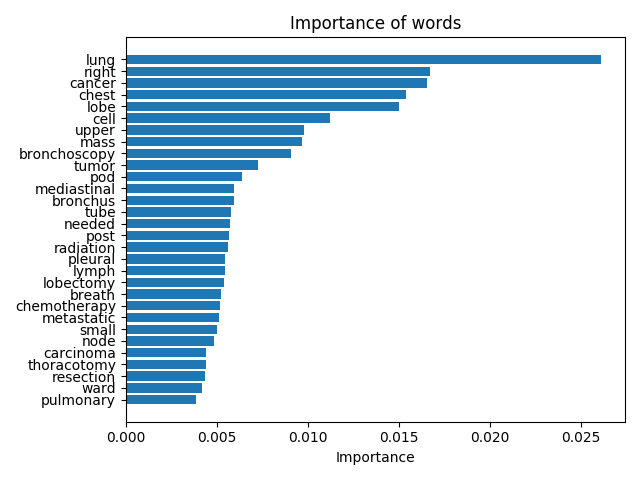
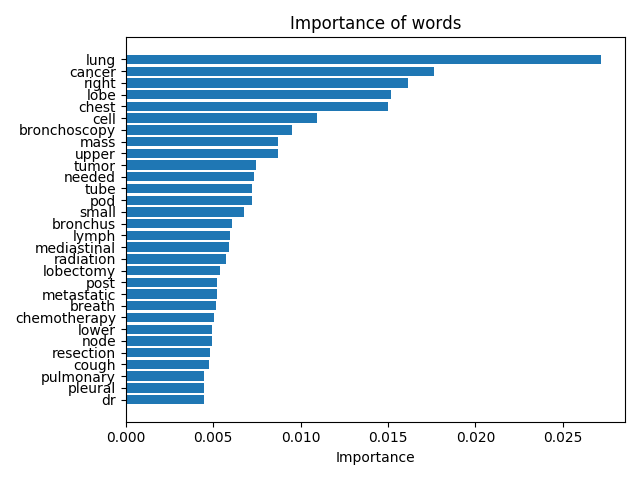
add somments to 3 files, create a plan for the days that are left

diff --git a/end_to_end.py b/end_to_end.py
@@ -1,3 +1,7 @@
+"""
+This file is accessed from the Main.py or Gui.py files to run the program end to end (data cleaning, training,
+predicting, visualising the results)
+"""
 import metrics as metrics
 from balance_train_data.vectorize_text import get_vectorized_train_test
 from data_preparation.prepare_data import get_clean_dataframe
@@ -17,7 +21,14 @@ results_on_validation = True
 
 
 def run_end_to_end(threshold, balancing_type, solver, ngram_min, ngram_max):
+    """ Get clean data, call run_model_on_balanced_data function and evaluate the predictions
 
+    @param threshold: a float number between 0 and 1, decision threshold parameter
+    @param balancing_type: a string, represents the selected data balancing type
+    @param solver: a string, represents the selected solver used for the Linear Regression model
+    @param ngram_min: integer, minimum number of adjacent words to be used for vectorization
+    @param ngram_max: integer, maximum number of adjacent words to be used for vectorization
+    """
     # read and clean input data
     notes_adm = get_clean_dataframe()
 
@@ -42,23 +53,26 @@ def run_end_to_end(threshold, balancing_type, solver, ngram_min, ngram_max):
                                                                                      solver,
                                                                                      ngram_min,
                                                                                      ngram_max)
-
-    # illustrate word importance
-    plot_word_importance()
-
-    # evaluating the model
-    cnf_matrix = get_confusion_matrix(test_OUTPUT, predicted_OUTPUT)
-    plot_confusion_matrix(cnf_matrix)
-
-    print("Accuracy:", metrics.accuracy_score(test_OUTPUT, predicted_OUTPUT))
-    print("Precision:", metrics.precision_score(test_OUTPUT, predicted_OUTPUT))
-    print("Recall:", metrics.recall_score(test_OUTPUT, predicted_OUTPUT))
-
-    # illustrate area under the ROC curve
-    plot_AUC(test_OUTPUT, prediction_probs)
+    # plot confucion_matrix, AUC, print accuracy
+    plot_evaluation_metrics(test_OUTPUT, predicted_OUTPUT, prediction_probs)
 
 
 def run_model_on_balanced_data(balancing_type, train, test, threshold, solver, ngram_min, ngram_max):
+    """ balance the dataset: SMOTE first vectorizes the dataset and then balances it while the other two types
+    balance the dataset and then vectorize it.
+    Call get_test_predicted_OUTPUT function to train the model and get predictions on the test set
+
+    @param balancing_type: a string, represents the selected data balancing type
+    @param train: pandas dataframe, stores the data used for training the model
+    @param test: pandas dataframe, stores the data used for testing
+    @param threshold: a float number between 0 and 1, decision threshold parameter
+    @param solver: a string, represents the selected solver used for the Linear Regression model
+    @param ngram_min: integer, minimum number of adjacent words to be used for vectorization
+    @param ngram_max: integer, maximum number of adjacent words to be used for vectorization
+    @return: test_OUTPUT: list of output values in the test set
+             predicted_OUTPUT: list of predicted output values for the test set
+             prediction_probs: list of prediction probabilities for the test set, needed to plot the AUC
+    """
 
     # balance train data set
     if balancing_type == "SMOTE":
@@ -88,6 +102,25 @@ def run_model_on_balanced_data(balancing_type, train, test, threshold, solver, n
     return test_OUTPUT, predicted_OUTPUT, prediction_probs
 
 
+def plot_evaluation_metrics(test_OUTPUT, predicted_OUTPUT, prediction_probs):
+
+    # illustrate word importance
+    plot_word_importance()
+
+    # evaluating the model
+    cnf_matrix = get_confusion_matrix(test_OUTPUT, predicted_OUTPUT)
+    plot_confusion_matrix(cnf_matrix)
+
+    print("Accuracy:", metrics.accuracy_score(test_OUTPUT, predicted_OUTPUT))
+    print("Precision:", metrics.precision_score(test_OUTPUT, predicted_OUTPUT))
+    print("Recall:", metrics.recall_score(test_OUTPUT, predicted_OUTPUT))
+
+    # illustrate area under the ROC curve
+    plot_AUC(test_OUTPUT, prediction_probs)
+
+
+'''
 def append_results_file(filedir, threshold, solver, ngram_min, ngram_max):
     with open(filedir, 'a') as fd:
         fd.write()
+'''

diff --git a/Main.py b/Main.py
@@ -1,20 +1,26 @@
-
+"""
+Main file to run the code. Two options: enter parameters using Gui or set parameters manually
+"""
 from Gui import run_gui
 from end_to_end import run_end_to_end
 
+
 # variable to know if parameters are entered from Gui or manually
-parameters_set_manually = False
-sub_sample_neg_resut_file = 'experiment_results/sub_sample_neg_results.csv'
+parameters_set_manually = True
+# files to store the experiment results
+sub_sample_neg_results_file = 'experiment_results/sub_sample_neg_results.csv'
+over_sample_pos_results_file = 'experiment_results/over_sample_pos_results.csv'
+smote_results_file = 'experiment_results/smote_results.csv'
+
 
 if parameters_set_manually:
 
-
-    threshold = 0.3
+    threshold = 0.4
     balancing_types = ['SMOTE', 'sub-sample negatives', 'over-sample positives']
-    solvers =['newton-cg', 'lbfgs', 'liblinear', 'sag', 'saga']
+    solvers = ['newton-cg', 'lbfgs', 'liblinear', 'sag', 'saga']
     ngram_min = 1
     ngram_max = 1
-    run_end_to_end(threshold, balancing_types[0], solvers[0], 1, 2)
+    run_end_to_end(threshold, balancing_types[1], solvers[0], ngram_min, ngram_max)
 
 else:
     # enter parameters from Gui

diff --git a/Gui.py b/Gui.py
@@ -1,7 +1,10 @@
+"""
+Gui window to enter the parameters. Once the 'Run Code' button is clicked, the entered parameters are
+used to run the end to end process: data cleaning, training the model, making predictions
+and plotting the prediction results
+"""
 from tkinter import *
-
 from tkinter.ttk import *
-
 global threshold, balancing_type, solver, ngram_start, ngram_end
 from end_to_end import run_end_to_end
 #from PIL import ImageTk, Image
@@ -27,7 +30,7 @@ def run_gui():
     window.mainloop()
 
 
-def clicked(window):
+def clicked():
 
     run_end_to_end(float(threshold.get()), data_balancing_type.get(), solver.get(),
                    int(ngram_min.get()), int(ngram_max.get()))
